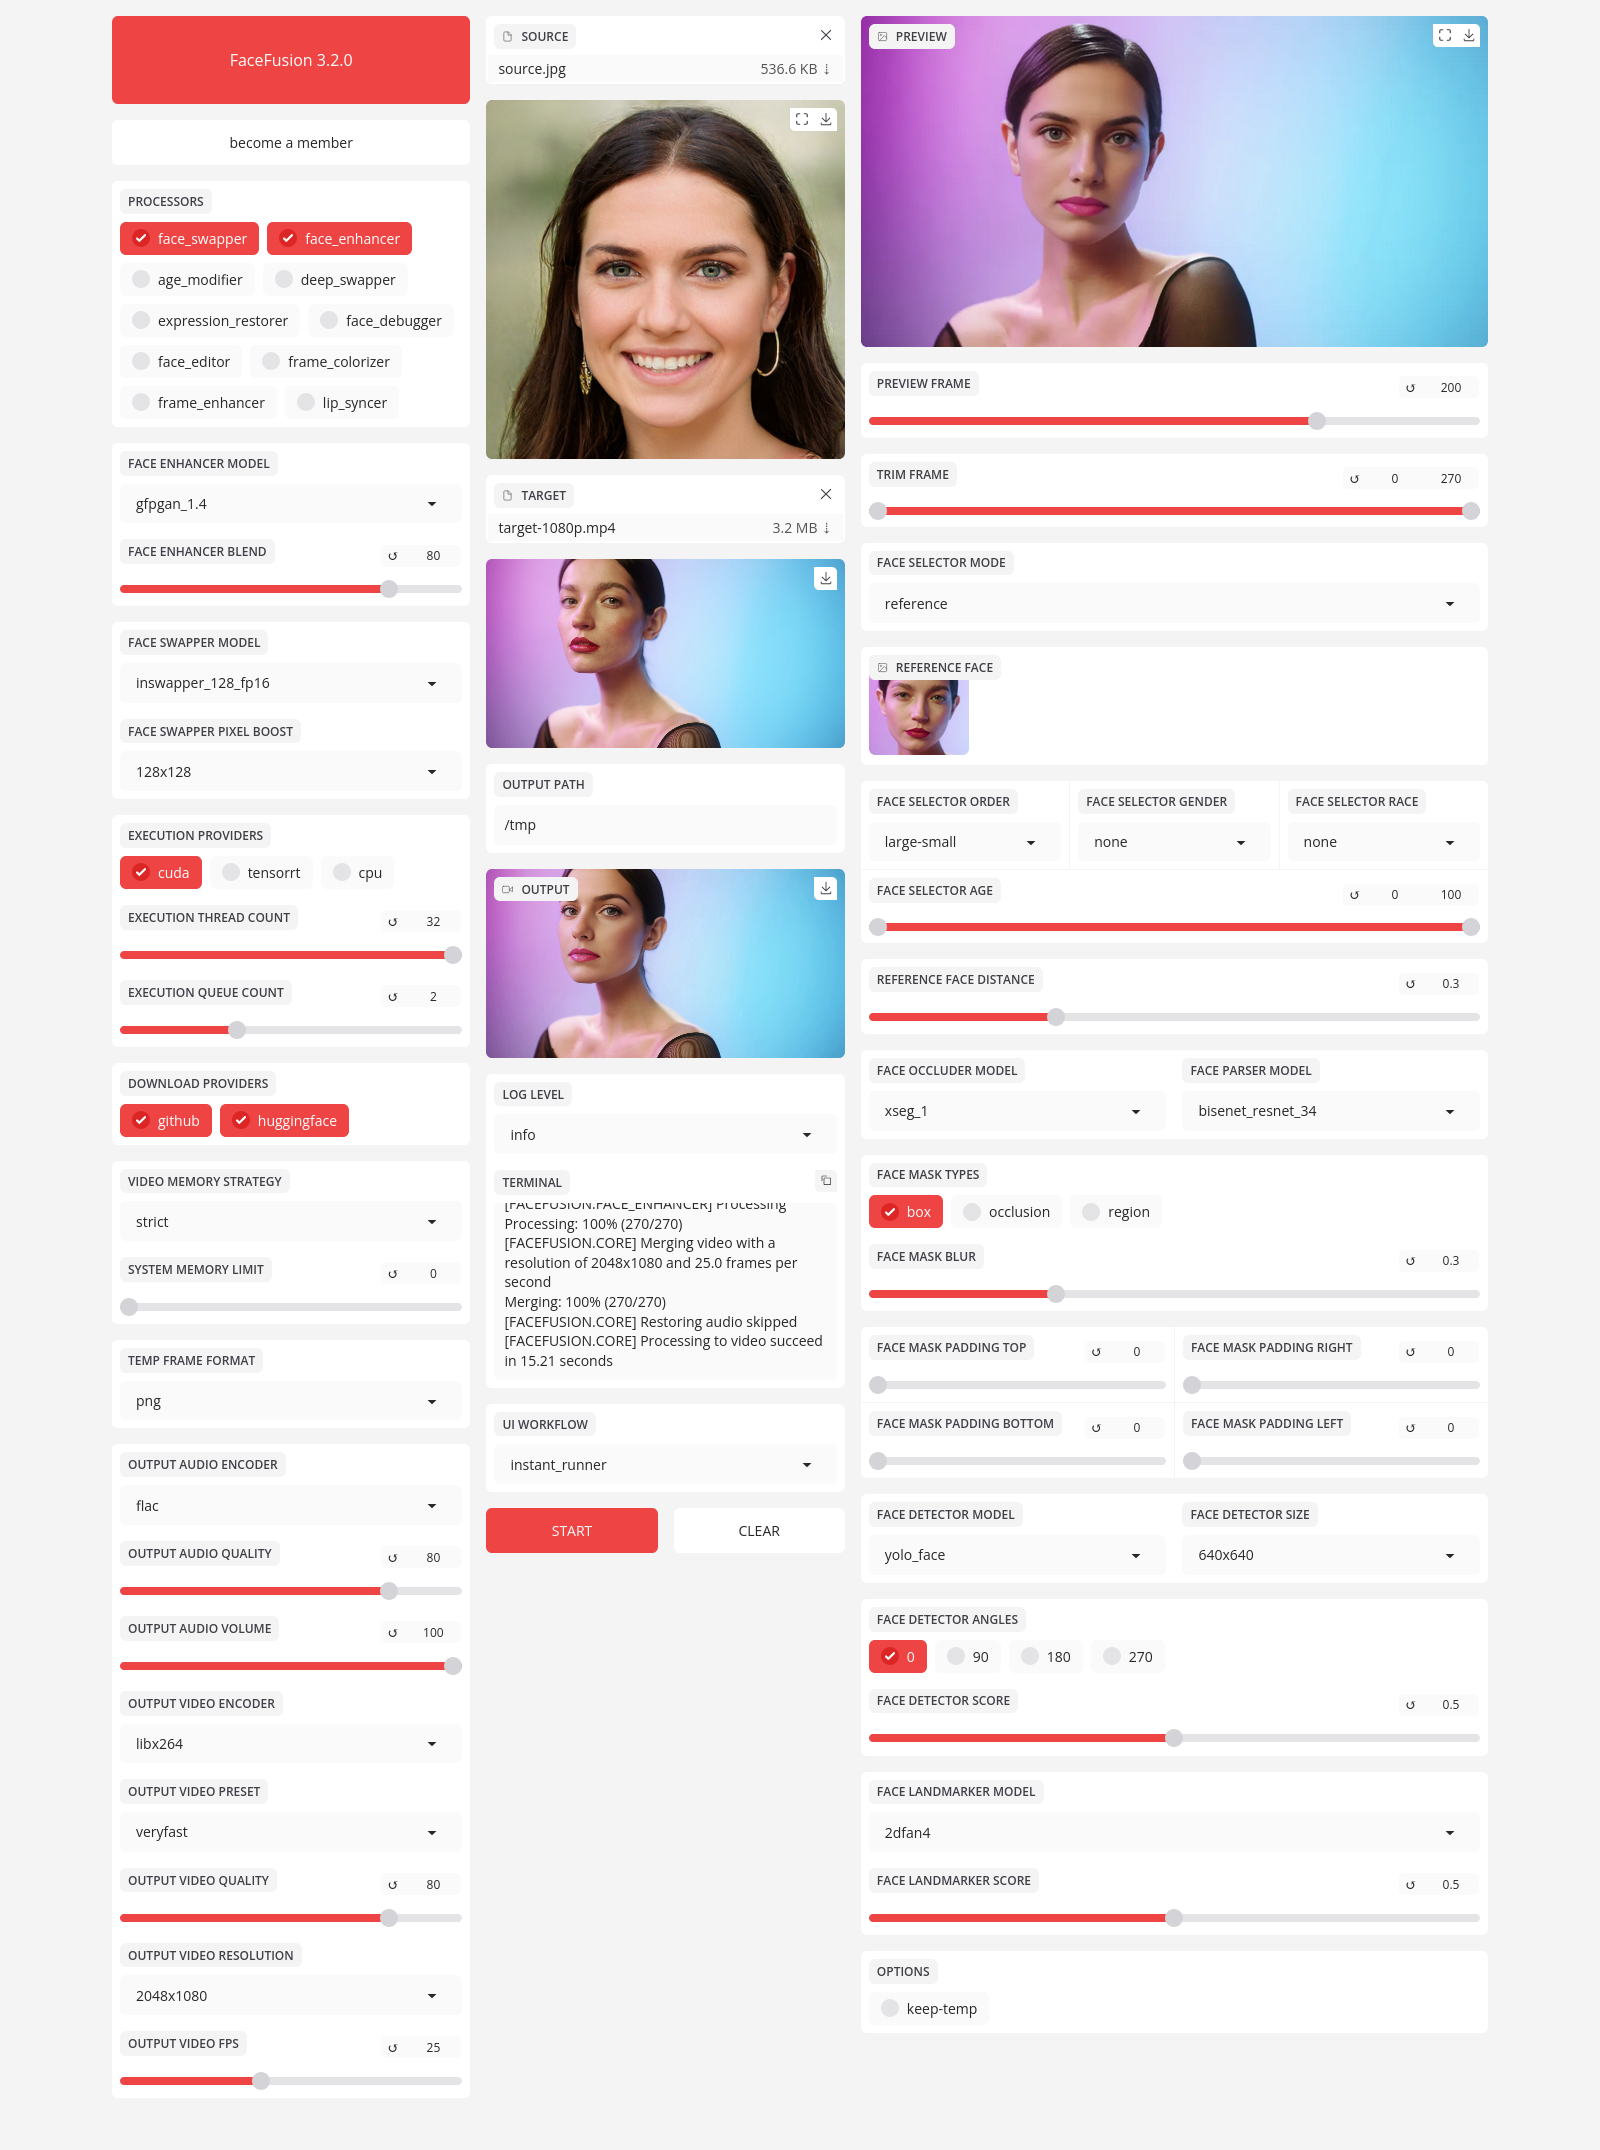
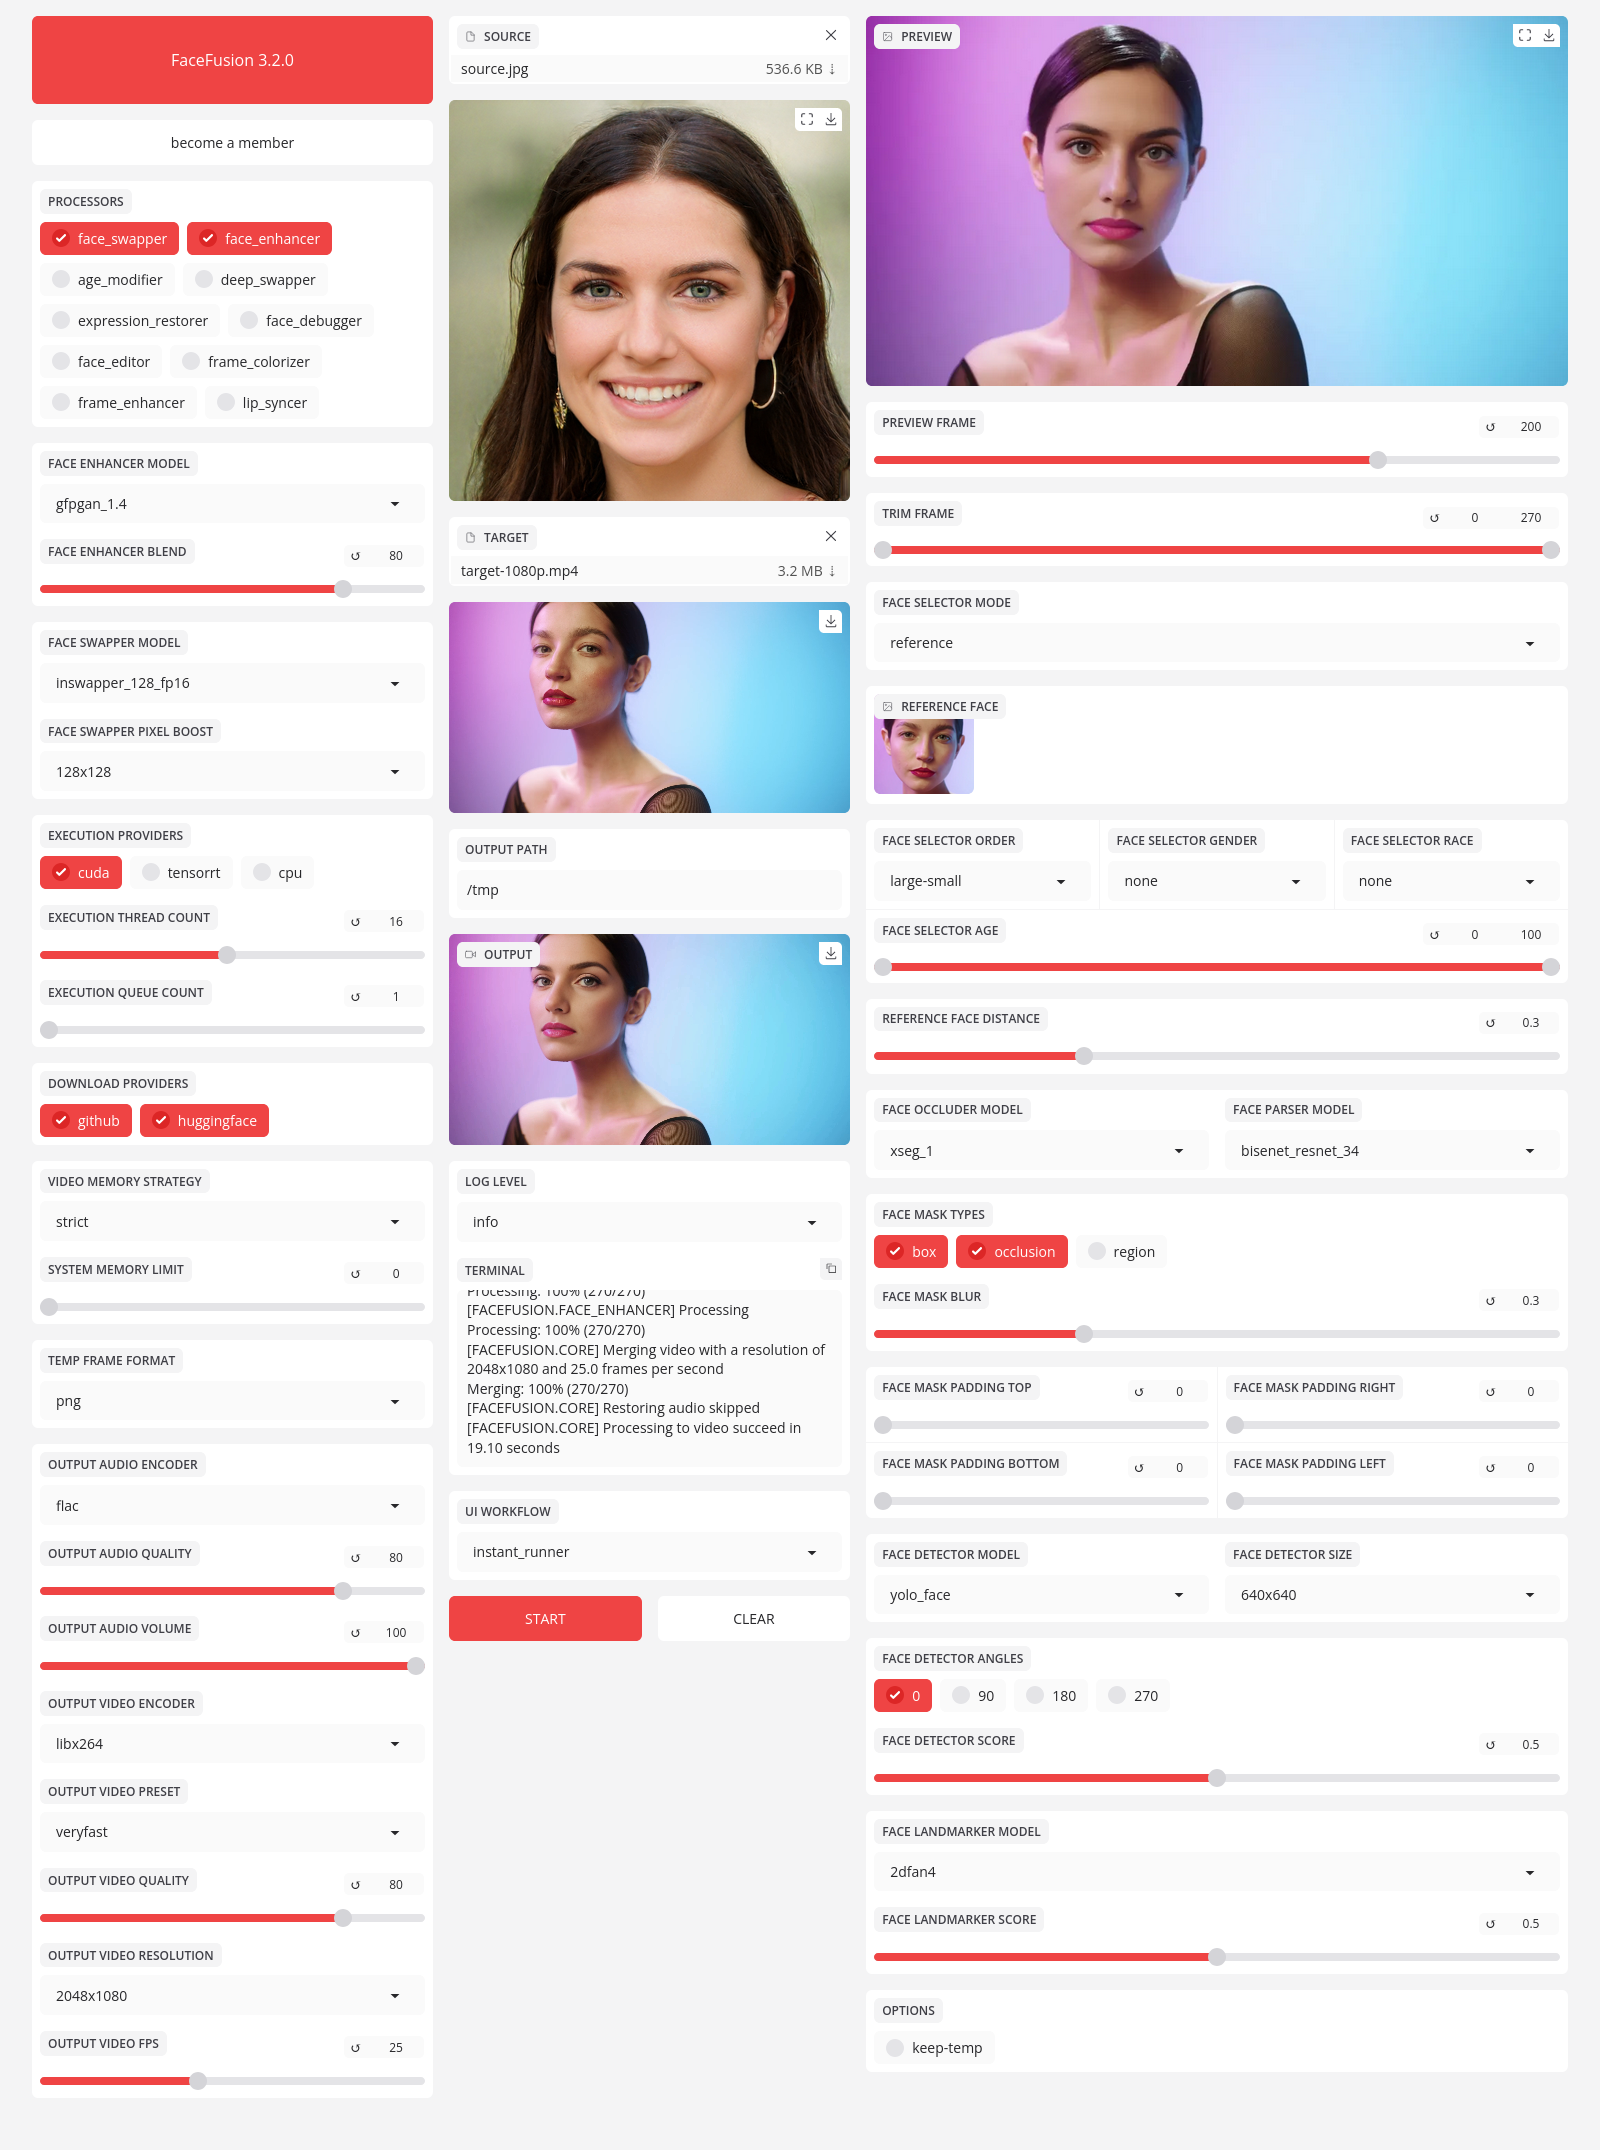
Prepare 3.2.0

diff --git a/facefusion/uis/assets/overrides.css b/facefusion/uis/assets/overrides.css
@@ -5,7 +5,7 @@
 
 :root:root:root:root main
 {
-	width: 90%;
+	max-width: 110em;
 }
 
 :root:root:root:root input[type="number"]
